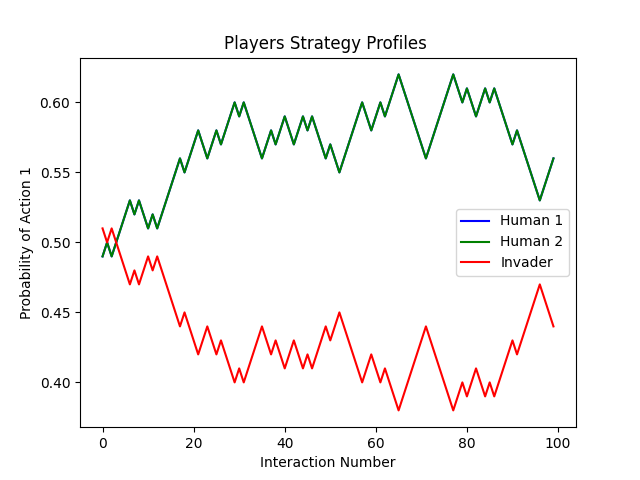
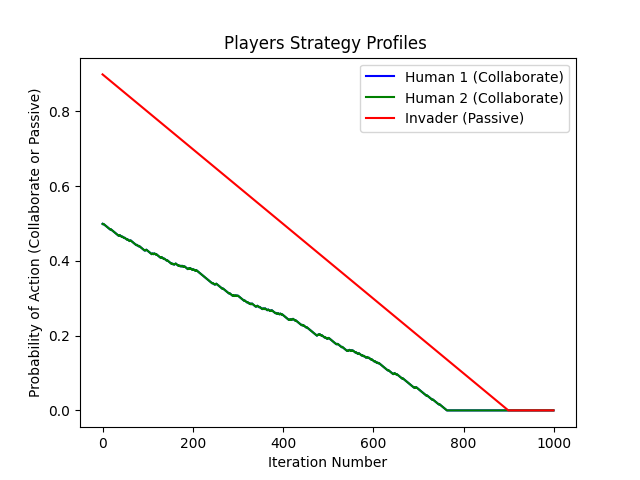
Update strategy update mechanism

diff --git a/Iterative-Game.py b/Iterative-Game.py
@@ -15,13 +15,13 @@ SYNERGY = 1.5 # Synergy Factor
 
 # Invader Focused Variables
 DAMAGE = 20 # Damage from Invader
-ATTACK = 2 # Cost of Attacking from Invader
+ATTACK = 5 # Cost of Attacking from Invader
 
 # Simulation settings  
-ROUNDS = range(100)
+ROUNDS = range(1000)
 human_1 = PlayerInformation(name='Human_1', action_set=['c', 's'], strategy=.5)
 human_2 = PlayerInformation(name='Human_2', action_set=['c', 's'], strategy=.5)
-invader = PlayerInformation(name='Invader', action_set=['p', 'a'], strategy=.5)
+invader = PlayerInformation(name='Invader', action_set=['p', 'a'], strategy=.9)
 
 # Create and initalize game
 game = InvaderGamePayoffMatrix(VALUE, COST, SYNERGY, DAMAGE, ATTACK)
@@ -29,17 +29,31 @@ game = InvaderGamePayoffMatrix(VALUE, COST, SYNERGY, DAMAGE, ATTACK)
 for i_round in ROUNDS:
     game.update_game()
 
-    payoffs = game.get_payoffs(human_1.get_action(),
-                           human_2.get_action(),
-                           invader.get_action())
+    human_1.get_action()
+    human_2.get_action()
+    invader.get_action()
+
+    payoffs = game.get_payoffs(human_1.current_action,
+                           human_2.current_action,
+                           invader.current_action)
     
     human_1.update_payoff(payoffs[0])
     human_2.update_payoff(payoffs[1])
     invader.update_payoff(payoffs[2])
 
-    human_1.update_strategy(payoffs[0], payoffs)
-    human_2.update_strategy(payoffs[1], payoffs)
-    invader.update_strategy(payoffs[2], payoffs)
+    human_1_alt = game.get_payoffs(human_1.alt_action,
+                                  human_2.current_action,
+                                  invader.current_action)[0]
+    human_2_alt = game.get_payoffs(human_1.current_action,
+                                   human_2.alt_action,
+                                   invader.current_action)[1]
+    invader_alt = game.get_payoffs(human_1.current_action,
+                                   human_2.current_action,
+                                   invader.alt_action)[2]
+
+    human_1.update_strategy(payoffs[0], human_1_alt)
+    human_2.update_strategy(payoffs[1], human_2_alt)
+    invader.update_strategy(payoffs[2], invader_alt)
 
 
 game.print_gamestate()
@@ -57,14 +71,14 @@ Invader: [p: {round(invader.strategy, 2)}, a: {round(1 - invader.strategy,2 )}]
 print(output_string)
 
 # Plotting strategies
-plt.plot(ROUNDS, human_1.strategy_history, label = 'Human 1', color = 'blue')
-plt.plot(ROUNDS, human_2.strategy_history, label = 'Human 2', color = 'green')
-plt.plot(ROUNDS, invader.strategy_history, label = 'Invader', color = 'red')
+plt.plot(ROUNDS, human_1.strategy_history, label = 'Human 1 (Collaborate)', color = 'blue')
+plt.plot(ROUNDS, human_2.strategy_history, label = 'Human 2 (Collaborate)', color = 'green')
+plt.plot(ROUNDS, invader.strategy_history, label = 'Invader (Passive)', color = 'red')
 
 # Add title and labels
 plt.title('Players Strategy Profiles ')
-plt.xlabel('Interaction Number')
-plt.ylabel('Probability of Action 1')
+plt.xlabel('Iteration Number')
+plt.ylabel('Probability of Action (Collaborate or Passive)')
 
 # Display the legend
 plt.legend()

diff --git a/Classes/PlayerInformation.py b/Classes/PlayerInformation.py
@@ -14,7 +14,8 @@ class PlayerInformation():
         Given an action set and strategy, get a action
         '''
 
-        return random.choices(population=self.action_set, weights=[self.strategy, 1-self.strategy])[0]
+        self.current_action = random.choices(population=self.action_set, weights=[self.strategy, 1-self.strategy])[0]
+        self.alt_action = [item for item in self.action_set if item != self.current_action][0]
 
     def update_payoff(self, my_payoff):
         '''
@@ -22,14 +23,14 @@ class PlayerInformation():
         '''
         self.total_payoff += my_payoff
 
-    def update_strategy(self, my_payoff, game_payoff):
+    def update_strategy(self, my_payoff, alt_payoff):
         
-        if my_payoff >=0:
-            self.strategy += .01
+        factor = 1 if self.current_action == self.action_set[0] else -1
+        
+        if my_payoff >= alt_payoff:
+            self.strategy += .001 * factor
         else: 
-            self.strategy -= .01
-
-        # Incorporate the game information to shift the probabilities 
+            self.strategy -= .001 * factor
 
         # Make sure we bound the strategy between 0 and 1
         self.strategy = min([1, self.strategy])
